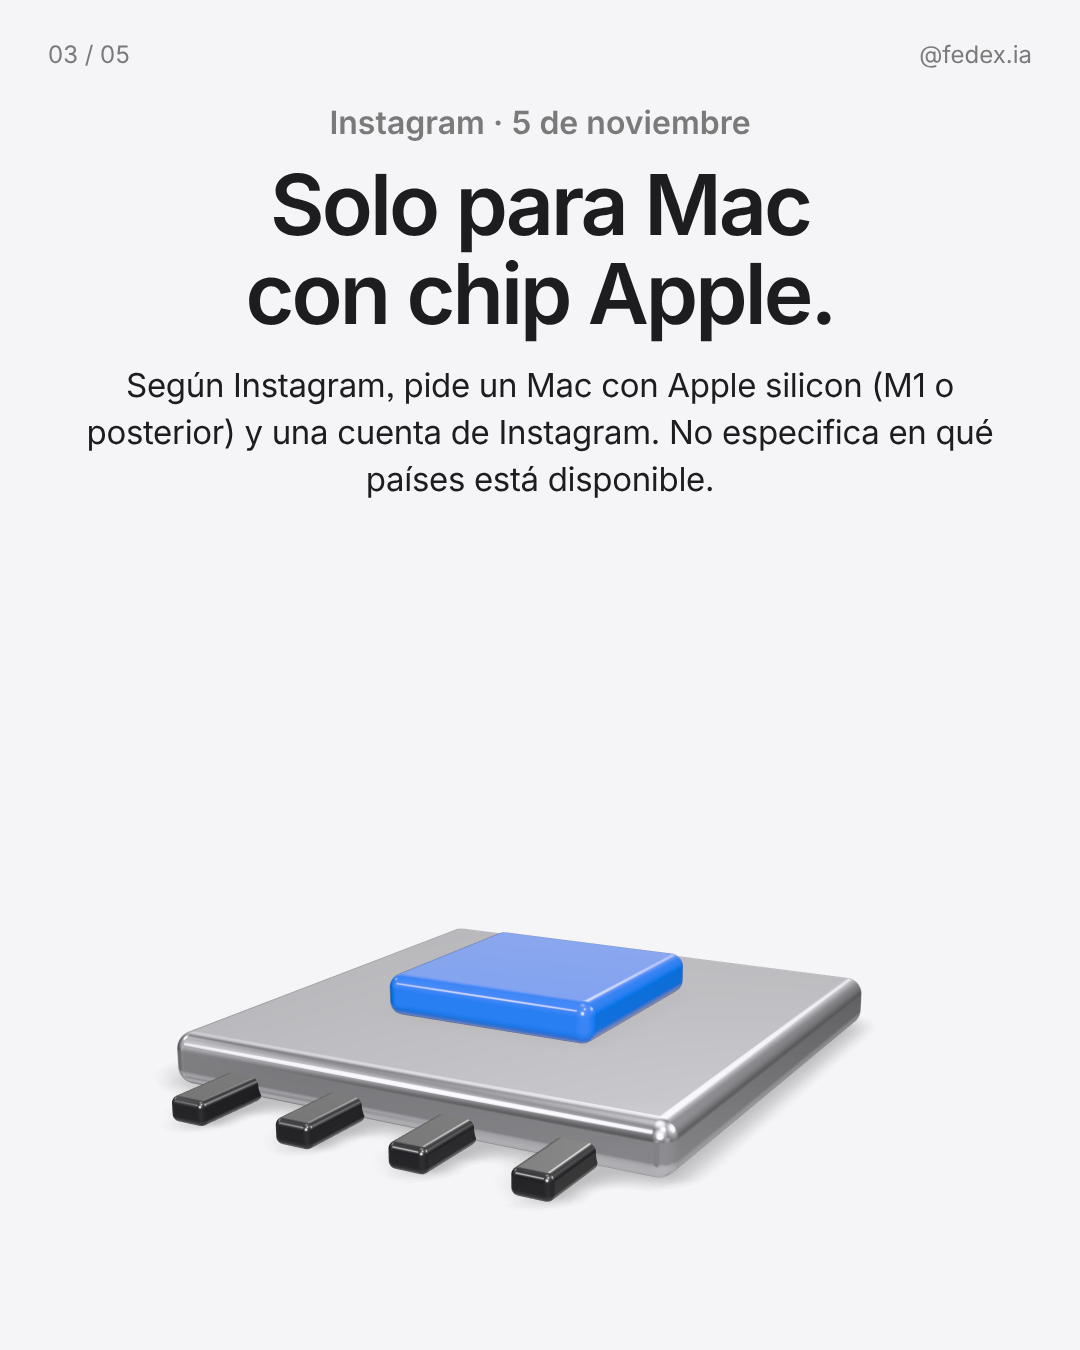
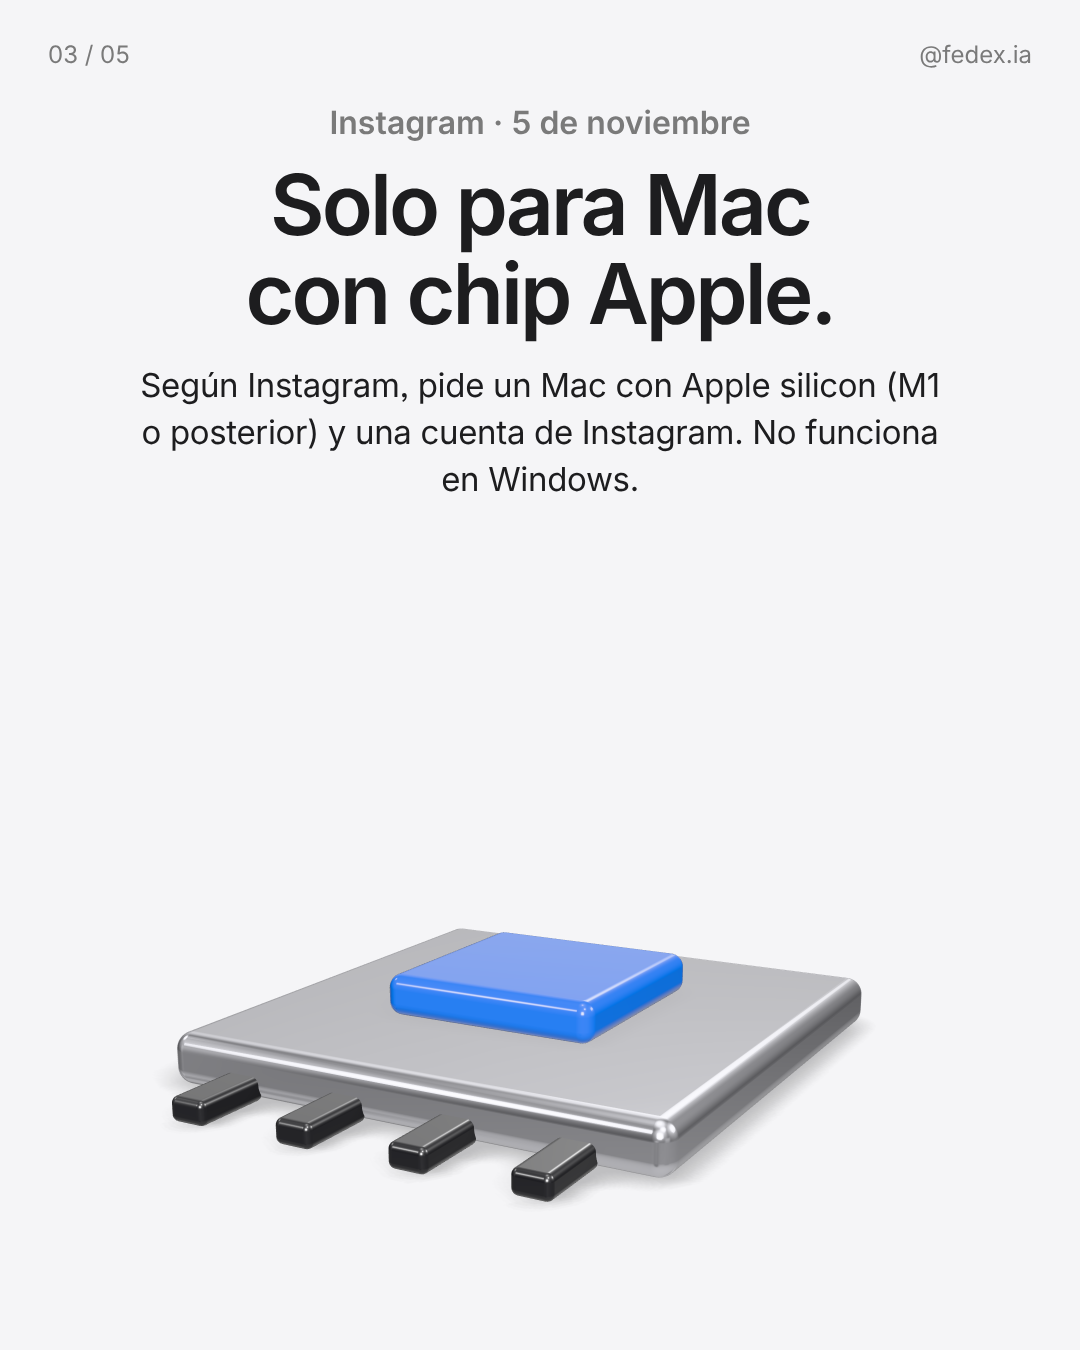
Borrador 2026-11-06: Edits sin la línea de países
Claude-Session: https://claude.ai/code/session_01RSDjsJz2Yk13cUqXXruQuR

Changed region(s): [[0.0917, 0.28, 0.9167, 0.3733]]

diff --git a/diario/2026-11-06-diario-instagram-edits-mac/copy.md b/diario/2026-11-06-diario-instagram-edits-mac/copy.md
@@ -5,7 +5,7 @@ Estado: pendiente de aprobación
 ## Noticia base
 - Hecho: Instagram lanzó Edits para Mac el 5 de noviembre de 2026 (ayer; hoy es viernes 6).
 - Qué es: editor de video de escritorio, gratis. Timeline multipista, keyframes, color, LUTs y fuentes propias, subtítulos automáticos, exportación 4K sin marca de agua, publicación directa a Instagram.
-- Disponibilidad (según Instagram): solo macOS, Mac con Apple silicon (M1 o posterior), cuenta de Instagram. Sin Windows. Sincronizar un proyecto entre escritorio y celular está en desarrollo. No nombra países.
+- Disponibilidad (según Instagram): solo macOS, Mac con Apple silicon (M1 o posterior), cuenta de Instagram. Sin Windows. Sincronizar un proyecto entre escritorio y celular está en desarrollo. La fuente no nombra países; por pedido de Fede no se menciona el tema en el post.
 - Claude: el anuncio oficial dice que los agentes de IA se conectan al editor por MCP. Claude Code, Codex y Muse aparecen en Ajustes > Automation > «Connect an AI client» de la app (captura de pantalla de Fede, app instalada el 6 de noviembre).
 - Oficial: https://edits.instagram.com/blog/edits-desktop-video-editor (página del producto: https://edits.instagram.com/desktop/)
 - Prensa: https://9to5mac.com/2026/11/05/instagram-launches-edits-for-mac-with-multi-track-video-editing-and-4k-exports/
@@ -17,15 +17,15 @@ Estado: pendiente de aprobación
 ## Slides
 1. Portada (blanco). Eyebrow: Instagram · 5 de noviembre. Titular: Edits para Mac se conecta con Claude. Bajada: Instagram lanzó su editor de video para Mac. Qué trae y cómo conectarlo. Pastillas: Edits para Mac, Desliza →. 3D: pantalla grafito sobre base perla con esfera azul. Alt: Ilustración 3D de una pantalla grafito sobre una base perla con una esfera azul delante. Texto: Edits para Mac se conecta con Claude.
 2. Qué pasó (oscuro). Titular: Edits para Mac es un editor gratis. Cuerpo: Según Instagram, trae timeline multipista, keyframes y exportación en 4K sin marca de agua. Publicas en Instagram sin salir de la app. 3D: tres barras apiladas, la del medio azul. Alt: Ilustración 3D de tres barras apiladas de distinto largo, la del medio azul. Texto: Edits para Mac es un editor gratis.
-3. Disponibilidad (gris). Titular: Solo para Mac con chip Apple. Cuerpo: Según Instagram, pide un Mac con Apple silicon (M1 o posterior) y una cuenta de Instagram. No especifica en qué países está disponible. 3D: chip plateado con cuadrado azul. Alt: Ilustración 3D de un chip plateado con un cuadrado azul en el centro. Texto: Solo para Mac con chip Apple.
+3. Disponibilidad (gris). Titular: Solo para Mac con chip Apple. Cuerpo: Según Instagram, pide un Mac con Apple silicon (M1 o posterior) y una cuenta de Instagram. No funciona en Windows. 3D: chip plateado con cuadrado azul. Alt: Ilustración 3D de un chip plateado con un cuadrado azul en el centro. Texto: Solo para Mac con chip Apple.
 4. Qué significa (oscuro). Titular: Puedes conectar Claude Code a Edits. Cuerpo: Según Instagram, los agentes de IA se conectan por MCP. En la sección Automation de la app hay opciones para Claude Code, Codex y Muse. 3D: dos cubos unidos por una barra azul. Alt: Ilustración 3D de dos cubos unidos por una barra azul. Texto: Puedes conectar Claude Code a Edits.
 5. Cierre (blanco). Titular: ¿Qué editarías primero con Claude? Cuerpo: Guarda el post para probarlo en tu Mac. Pastillas: Seguí a @fedex.ia, Guardar. Fuente: edits.instagram.com ›. 3D: objeto cierre. Alt: Ilustración 3D de un marcador azul sobre una tarjeta perla. Texto: ¿Qué editarías primero con Claude?
 
-## Caption para copiar (139 palabras + 5 hashtags)
+## Caption para copiar (130 palabras + 5 hashtags)
 ```text
 Instagram lanzó el 5 de noviembre Edits para Mac, su editor de video gratis. Según Instagram, trae timeline multipista, keyframes, subtítulos automáticos, exportación en 4K sin marca de agua y publicación directa a Instagram.
 
-Pide un Mac con chip Apple silicon (M1 o posterior) y una cuenta de Instagram. No funciona en Windows. Todavía no se puede seguir un mismo proyecto entre Mac y celular: Instagram dice que trabaja en eso. El anuncio no especifica en qué países está disponible.
+Pide un Mac con chip Apple silicon (M1 o posterior) y una cuenta de Instagram. No funciona en Windows. Todavía no se puede seguir un mismo proyecto entre Mac y celular: Instagram dice que trabaja en eso.
 
 Instagram dice que los agentes de IA se conectan por MCP. En la sección Automation de la app aparecen opciones para Claude Code, Codex y Muse. Ojo: quien tenga el token de acceso puede editar tus proyectos mientras el servidor esté activo.
 
@@ -59,7 +59,7 @@ Todas las slides usan la misma fuente (edits.instagram.com, anuncio oficial). La
 | Claude Code, Codex y Muse en «Connect an AI client» | Captura de la app instalada, enviada por Fede |
 | Token privado: quien lo tenga puede editar proyectos con el servidor activo | Texto de la propia app (captura) |
 | Sync Mac-celular en desarrollo | Post oficial |
-| Países | Ninguna fuente los nombra: «No especifica en qué países está disponible» |
+| Países | Ninguna fuente los nombra. Por pedido de Fede (la app ya funciona en Argentina) se quitó la línea «No especifica en qué países»; no se afirma disponibilidad global |
 
 Dejé afuera:
 - Que Edits tenga 50 millones de usuarios mensuales: lo cita una nota secundaria sin verlo en el anuncio.
